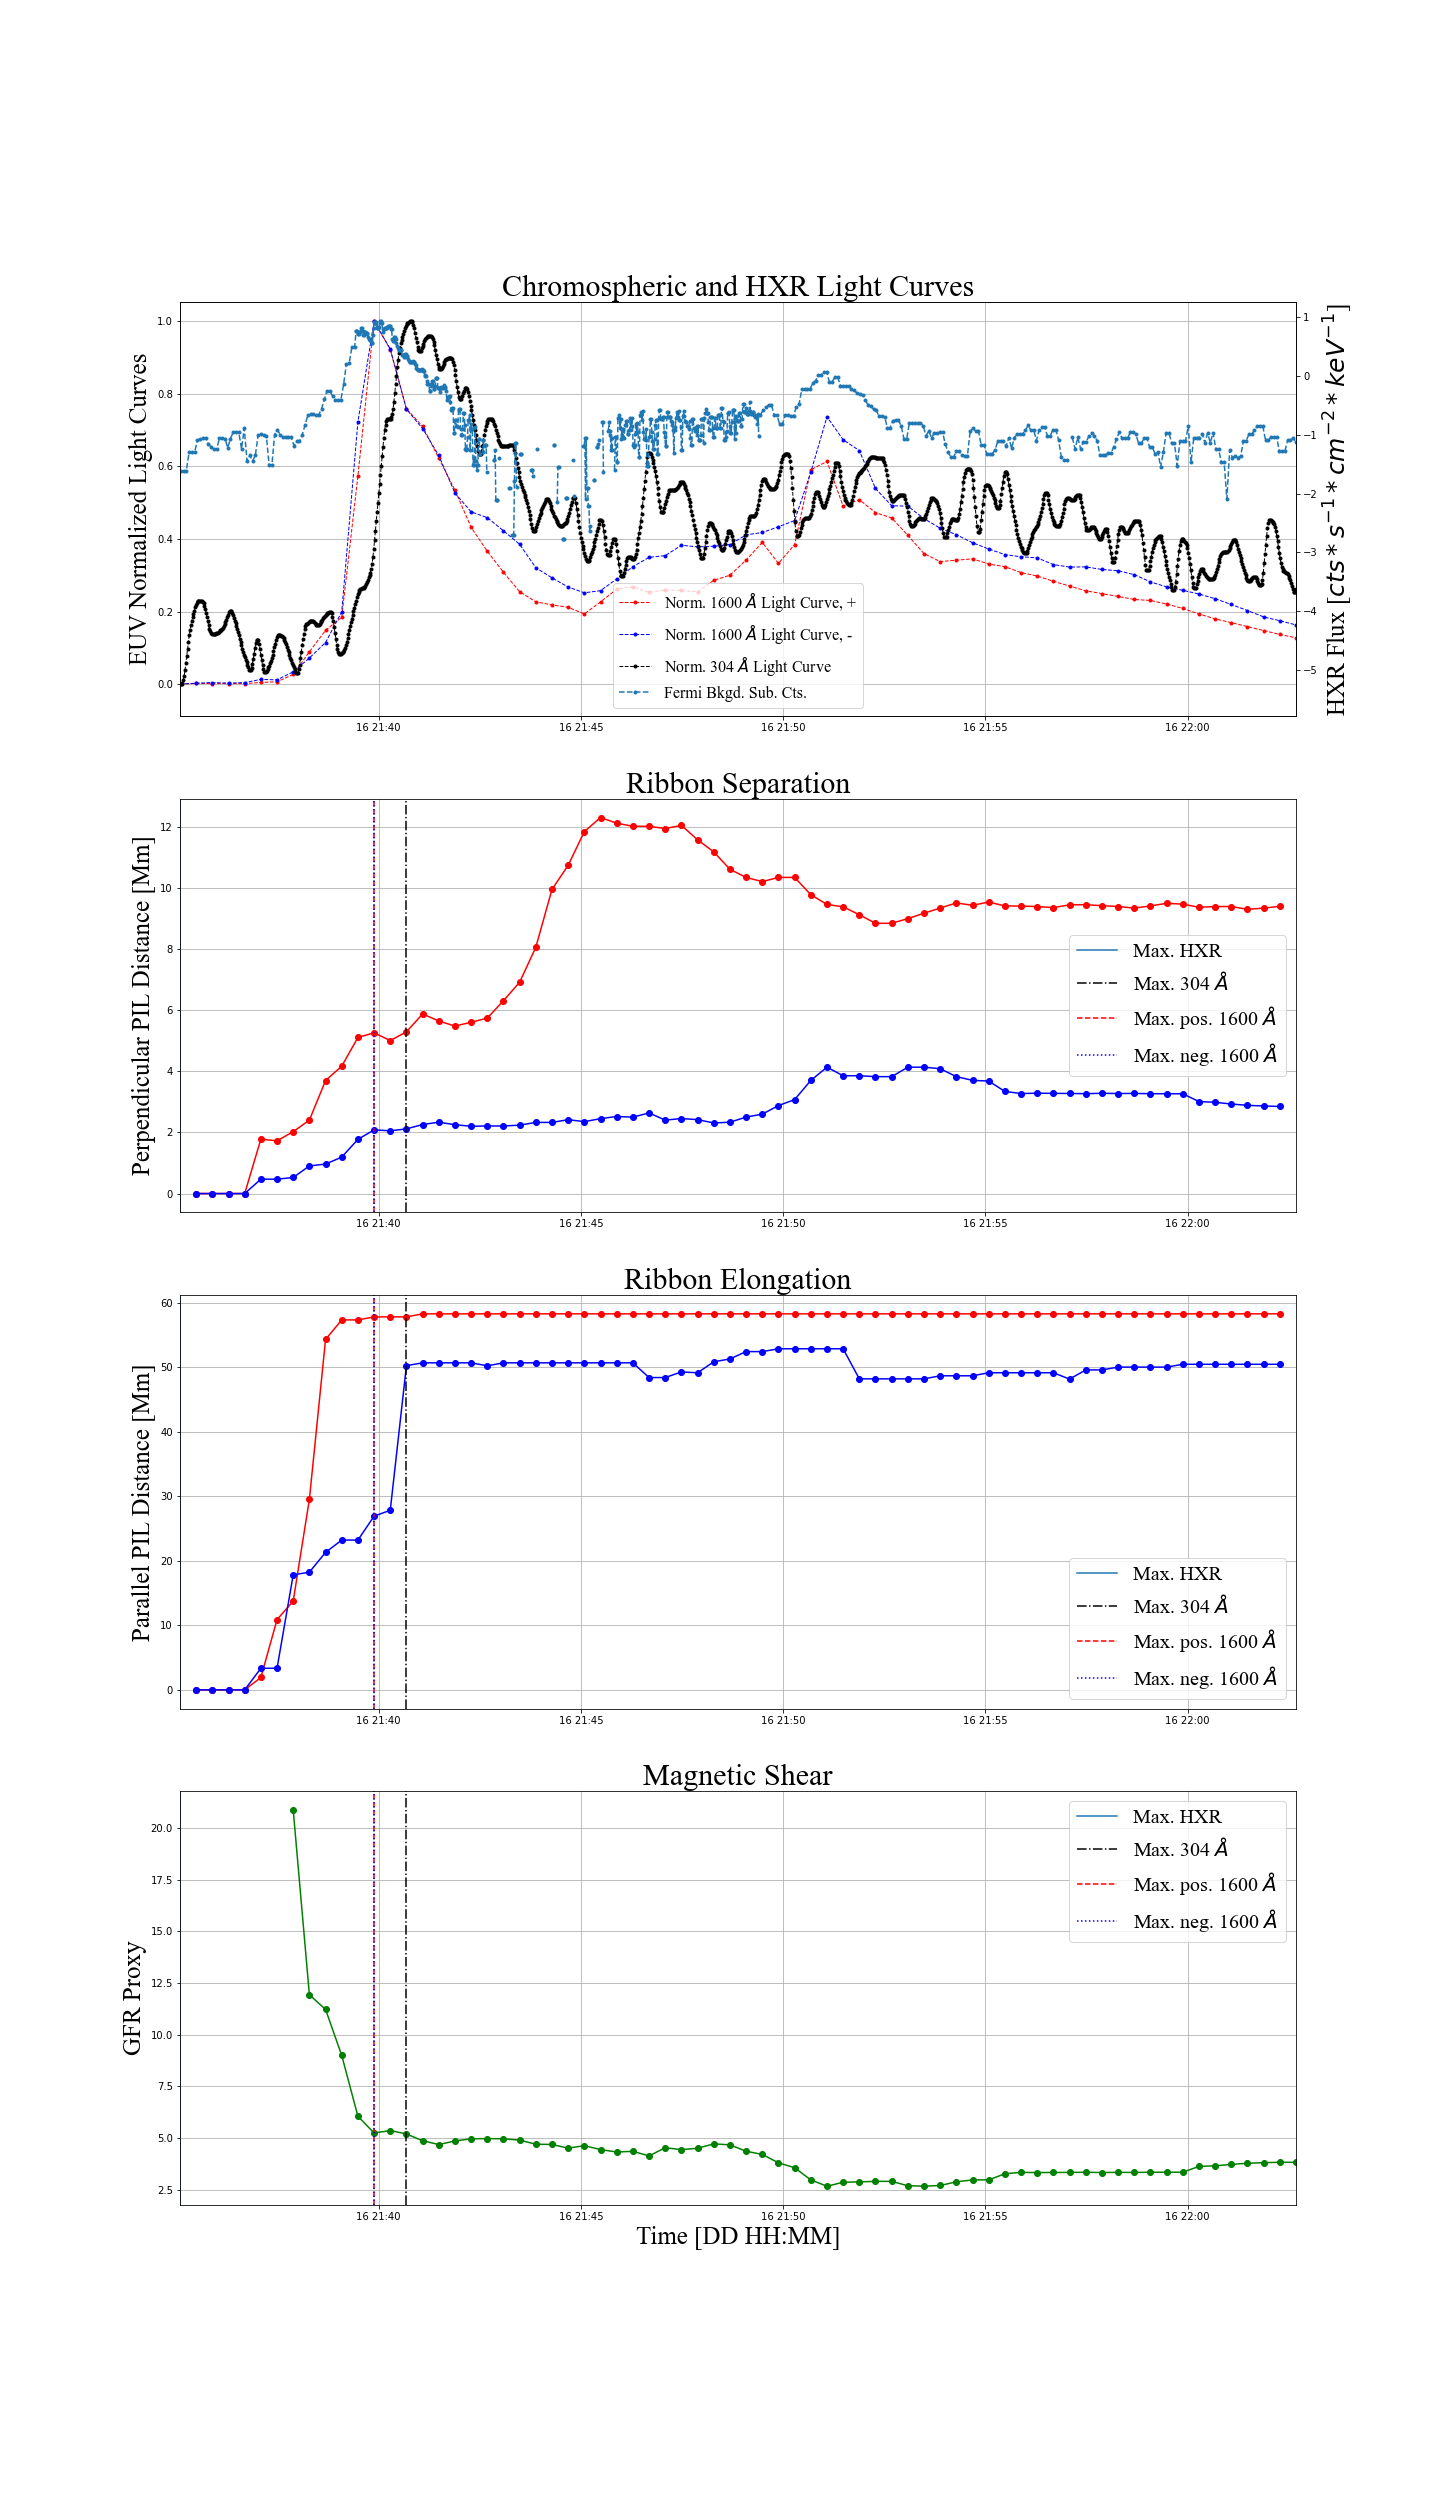
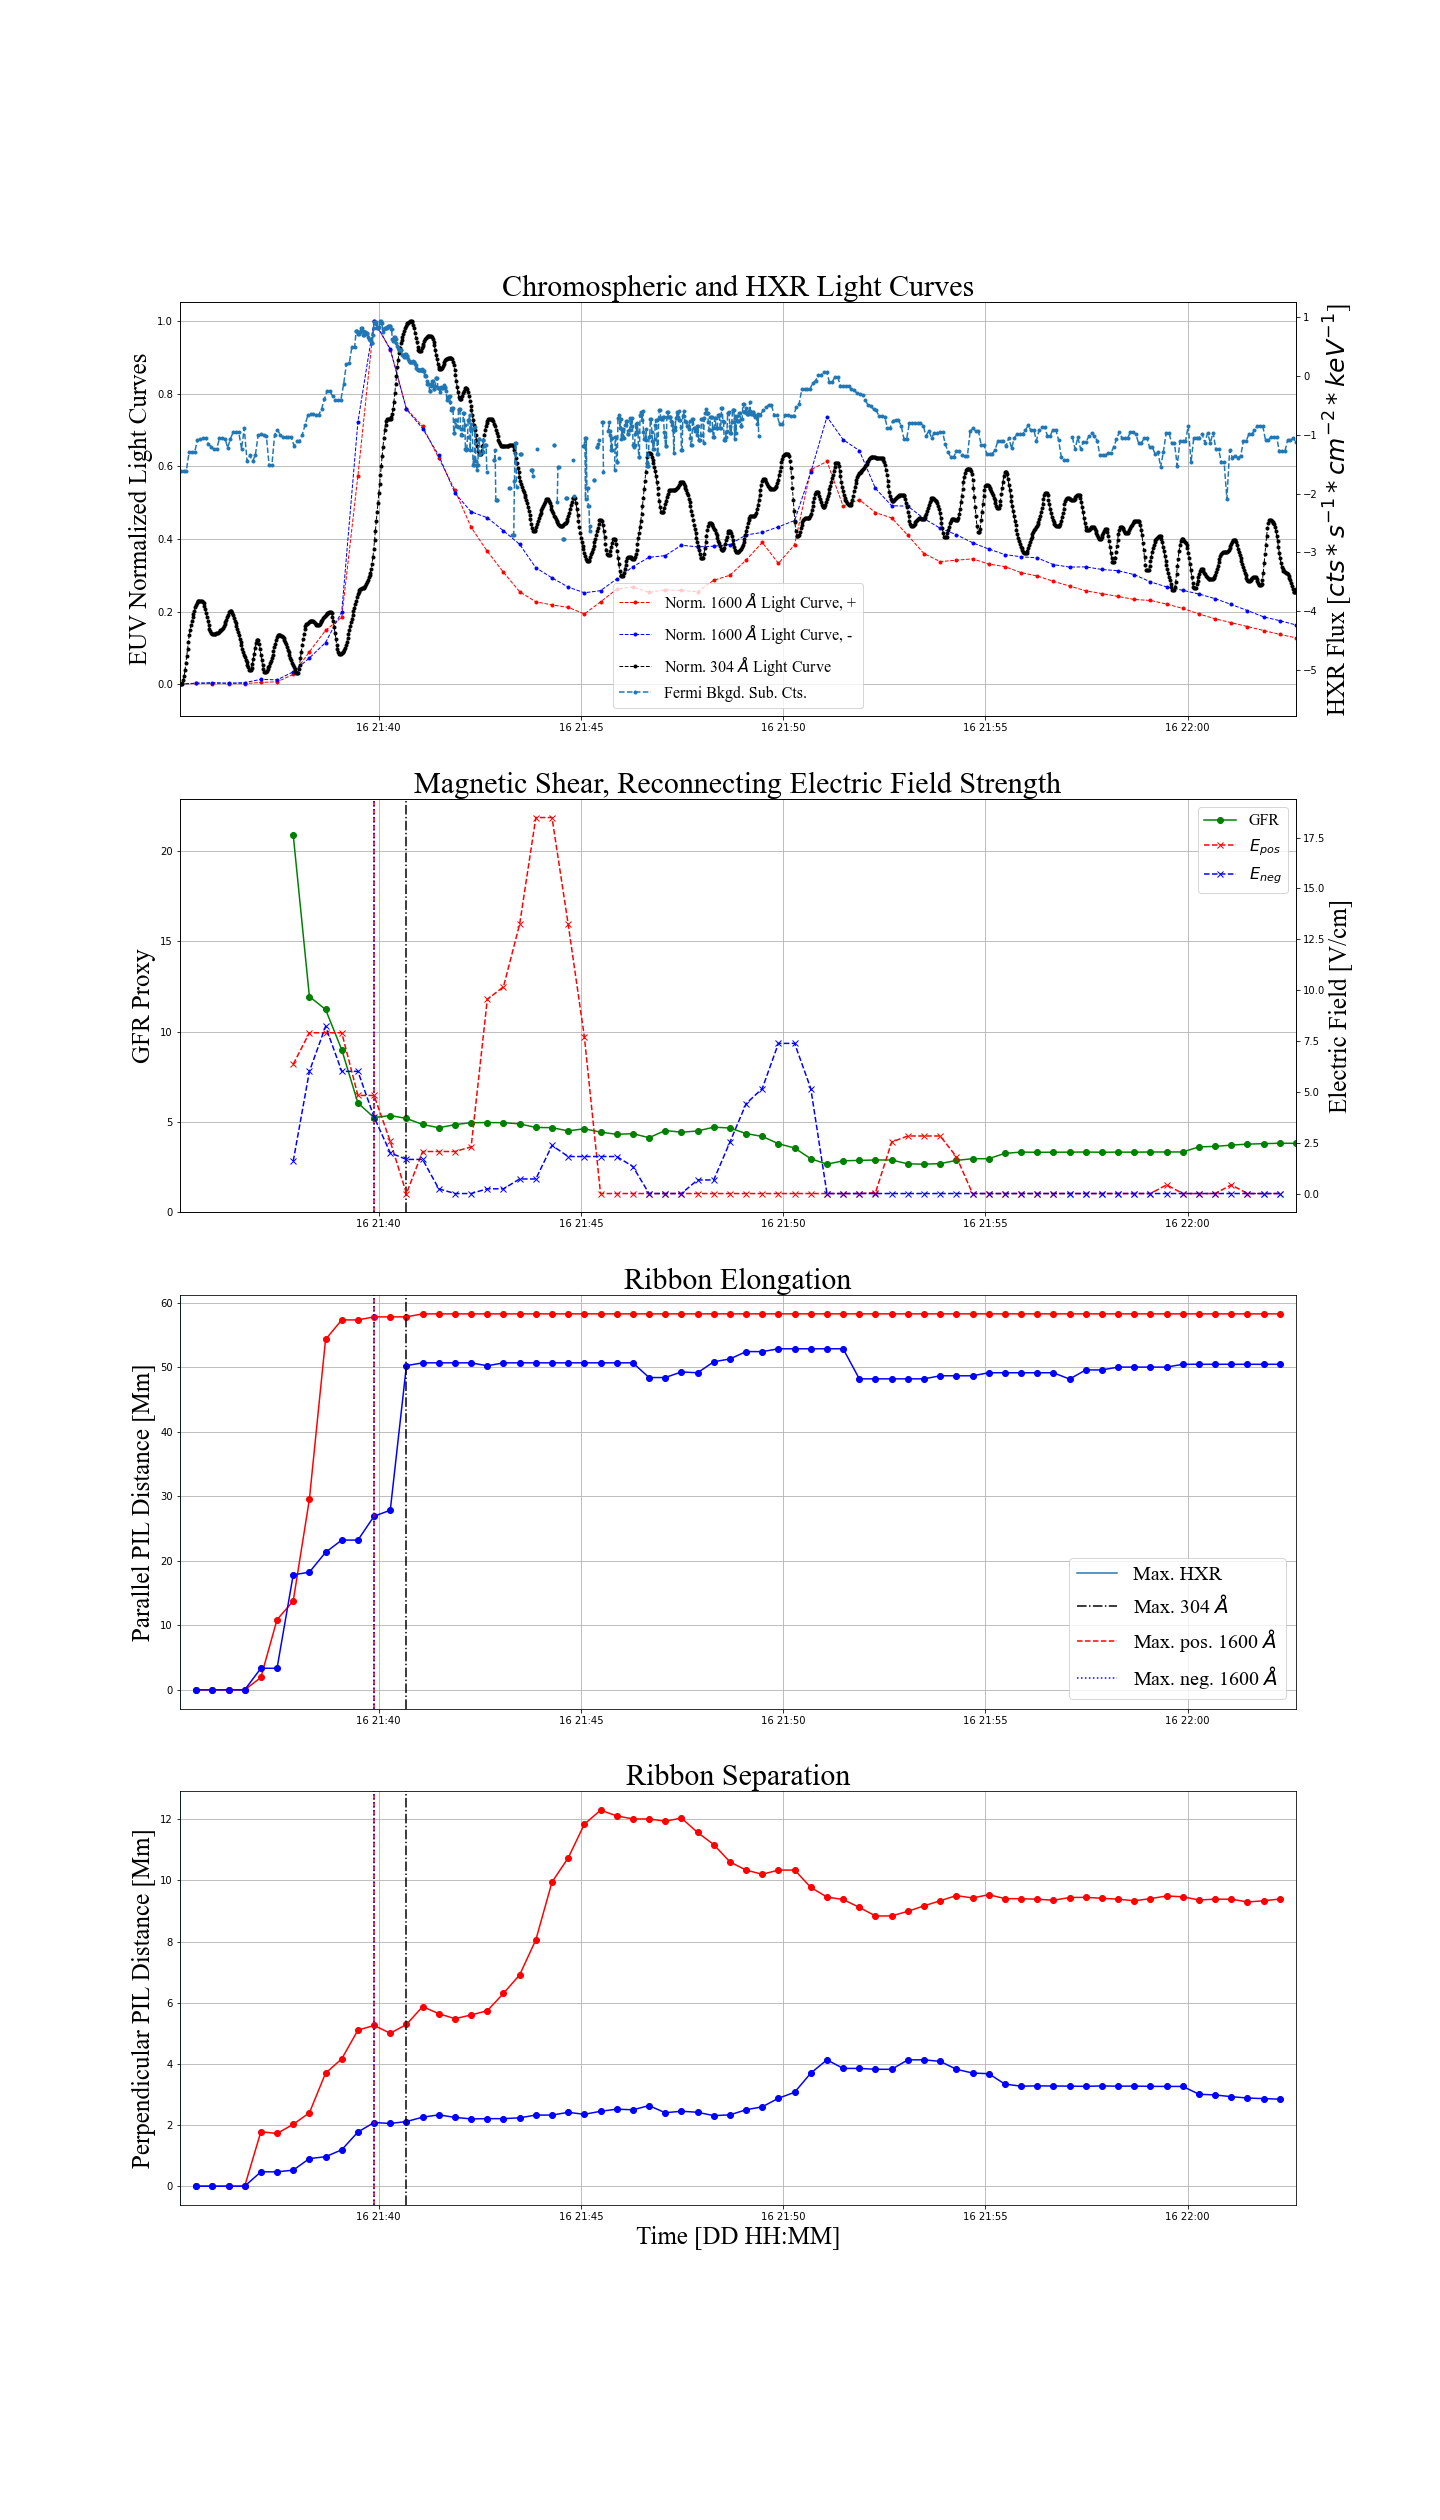
mid1 fourpanel edit

diff --git a/mid1_process.py b/mid1_process.py
@@ -310,6 +310,14 @@ indstrt_sep = 1
 indstrt_elon = 1
 gfr_trans = 7
 
+
+
+E_pos, E_neg, E_rat, time_E = fl_funcs.E_field_det(conv_f, distpos_med,
+                                                   distneg_med, timelab, 
+                                                   hmi_dat, pos_rem, neg_rem, 
+                                                   flnum, dt1600, times,
+                                                   startind=7)
+
 fl_funcs.plt_fourpanel(times, right_gfr, left_gfr, flnum, dt1600, time304,
                   filter_304, lens_pos_Mm, lens_neg_Mm, distpos_Mm, distneg_Mm,
                   dt304, timelab, conv_f,
@@ -319,10 +327,4 @@ fl_funcs.plt_fourpanel(times, right_gfr, left_gfr, flnum, dt1600, time304,
                   sepperiod_start_neg, sepperiod_end_neg, exp_ind,
                   s304, e304, pos1600, neg1600, dn1600, indstrt_elon, 
                   indstrt_sep, fermitimes, raw_hxr_sum, cspec_hxr_sum,
-                  gfr_trans, low_hxr=16500, high_hxr=18000,  period_flag = 0)
-
-E_pos, E_neg, E_rat, time_E = fl_funcs.E_field_det(conv_f, distpos_med,
-                                                   distneg_med, timelab, 
-                                                   hmi_dat, pos_rem, neg_rem, 
-                                                   flnum, dt1600, times,
-                                                   startind=7)
+                  gfr_trans, E_pos, E_neg, time_E, low_hxr=16500, high_hxr=18000,  period_flag = 0)
